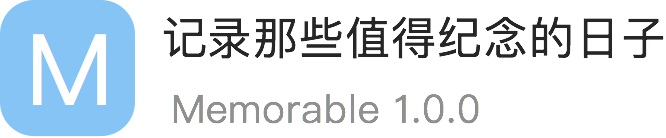
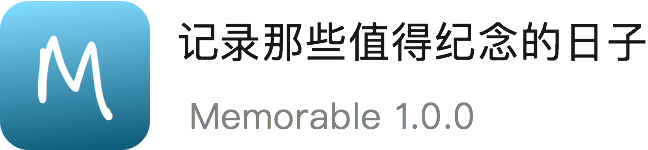
增加icon

diff --git a/Memorable/Memorable/Source/UI/Launch/JCLaunchVCL.swift b/Memorable/Memorable/Source/UI/Launch/JCLaunchVCL.swift
@@ -20,9 +20,9 @@ class JCLaunchVCL: JCBaseVCL {
         super.viewDidLoad()
         dateLabel.text = NSDate().formattedDateWithStyle(.FullStyle, locale: NSLocale.currentLocale())
         bottomImage.snp_makeConstraints { (make) -> Void in
-            make.bottom.equalTo(self.view.snp_bottom).offset(-25.5)
+            make.bottom.equalTo(self.view.snp_bottom).offset(-20)
             make.centerX.equalTo(self.view)
-            make.size.equalTo(CGSizeMake(200, 41.5))
+            make.size.equalTo(CGSizeMake(180, 47))
         }
         smileImage.snp_makeConstraints { (make) -> Void in
             make.centerY.equalTo(self.view).offset(-40)
